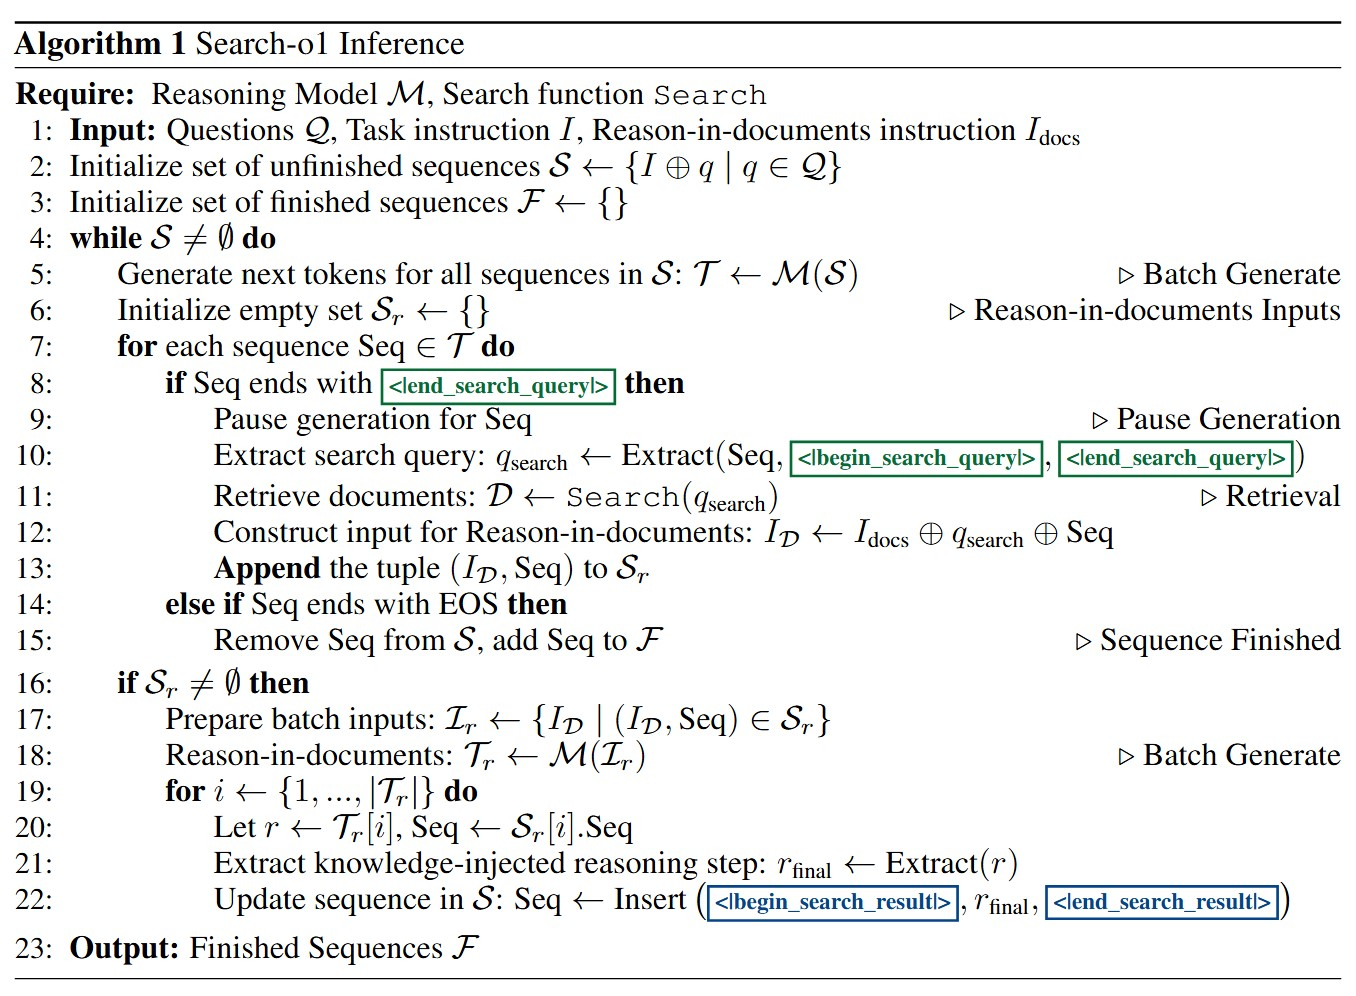
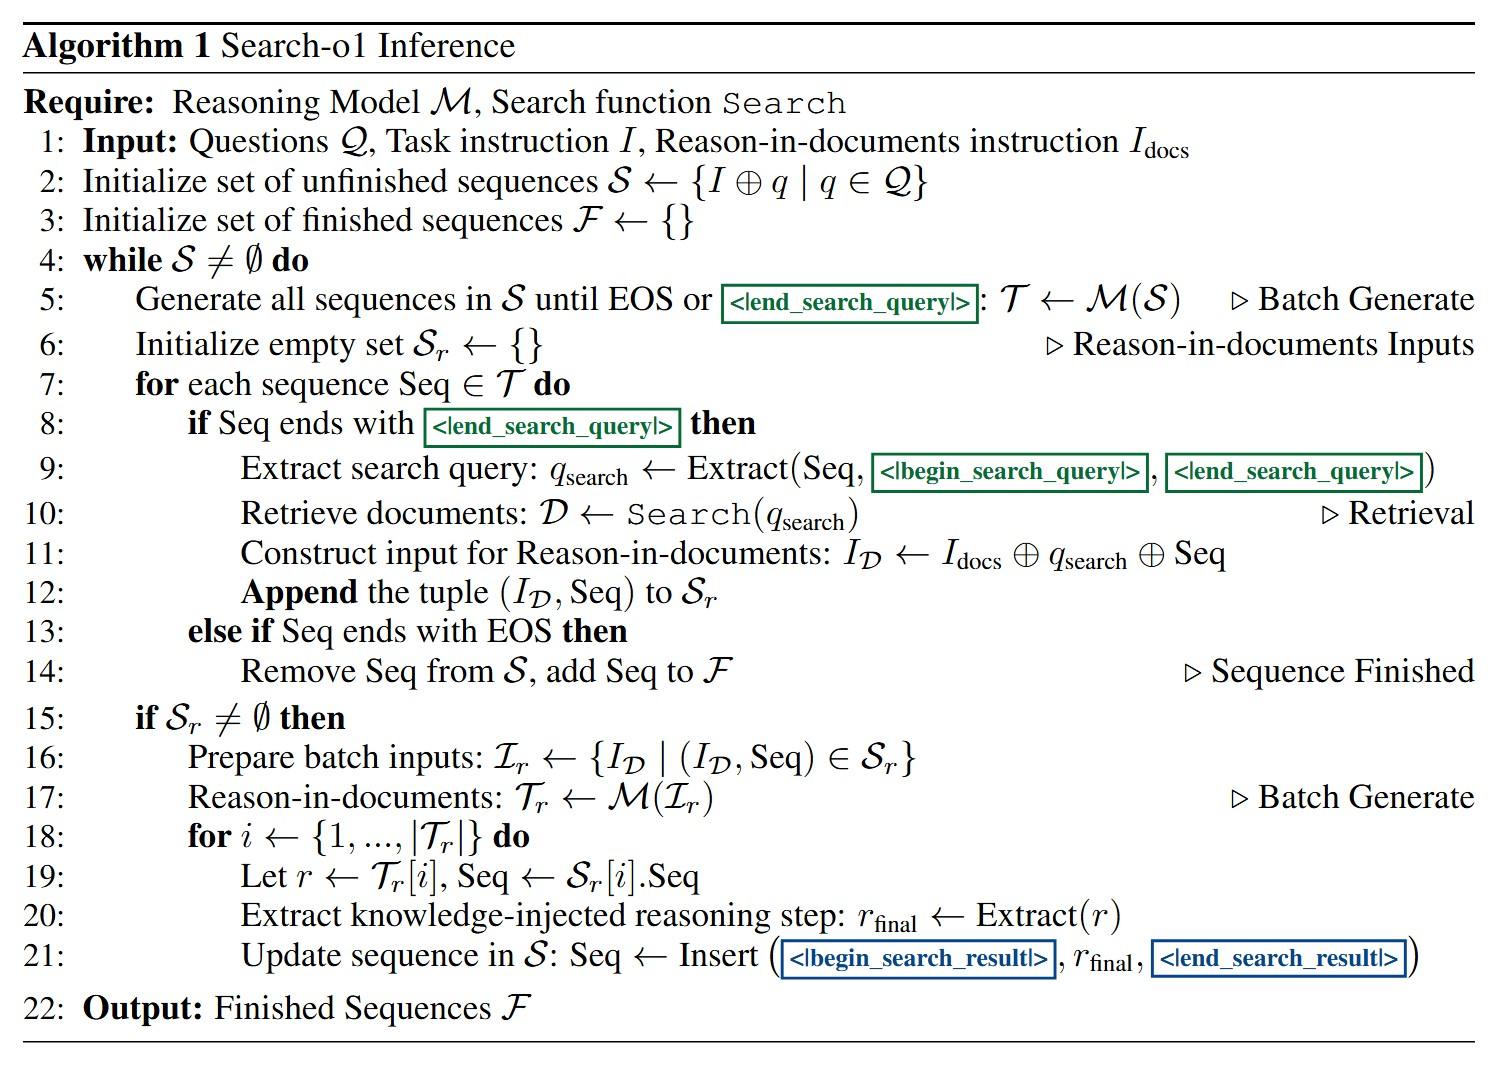
Update readme

Changed region(s): [[0.0, 0.0, 0.9912, 0.996], [0.8053, 0.7159, 0.9912, 0.7781], [0.7743, 0.6225, 0.9912, 0.6536]]

diff --git a/README.md b/README.md
@@ -15,13 +15,7 @@
 
 ## 💡 Overview
 
-Large Reasoning Models (LRMs) like OpenAI's o1 have showcased remarkable stepwise reasoning capabilities through reinforcement learning. Despite their strengths, these models often encounter knowledge insufficiencies during prolonged reasoning processes, resulting in frequent uncertainties and potential errors, as shown in the following figure.
-
-<p align="center">
-  <img src="figures/uncertainty.jpg" width="95%" />
-</p>
-
-### Method
+Large Reasoning Models (LRMs) like OpenAI's o1 have showcased remarkable stepwise reasoning capabilities through reinforcement learning. Despite their strengths, these models often encounter knowledge insufficiencies during prolonged reasoning processes, resulting in frequent uncertainties and potential errors.
 
 To overcome these challenges, we present **Search-o1**, a framework that augments LRMs with an **agentic Retrieval-Augmented Generation (RAG)** mechanism and a **Reason-in-Documents** module for deep analysis and integration of retrieved documents into the reasoning chain.
 - **Agentic Search Workflow**: Integrates an agentic search process into the reasoning workflow, allowing models itself to dynamically retrieve external knowledge whenever they encounter uncertain information.
@@ -163,9 +157,9 @@ If you find this work helpful, please cite our paper:
             Guanting Dong and
             Jiajie Jin and
             Yuyao Zhang and
-            Peitian Zhang and
             Yujia Zhou and
             Yutao Zhu and
+            Peitian Zhang and
             Zhicheng Dou},
     journal={CoRR},
     volume={abs/xxxx.xxxxxx},